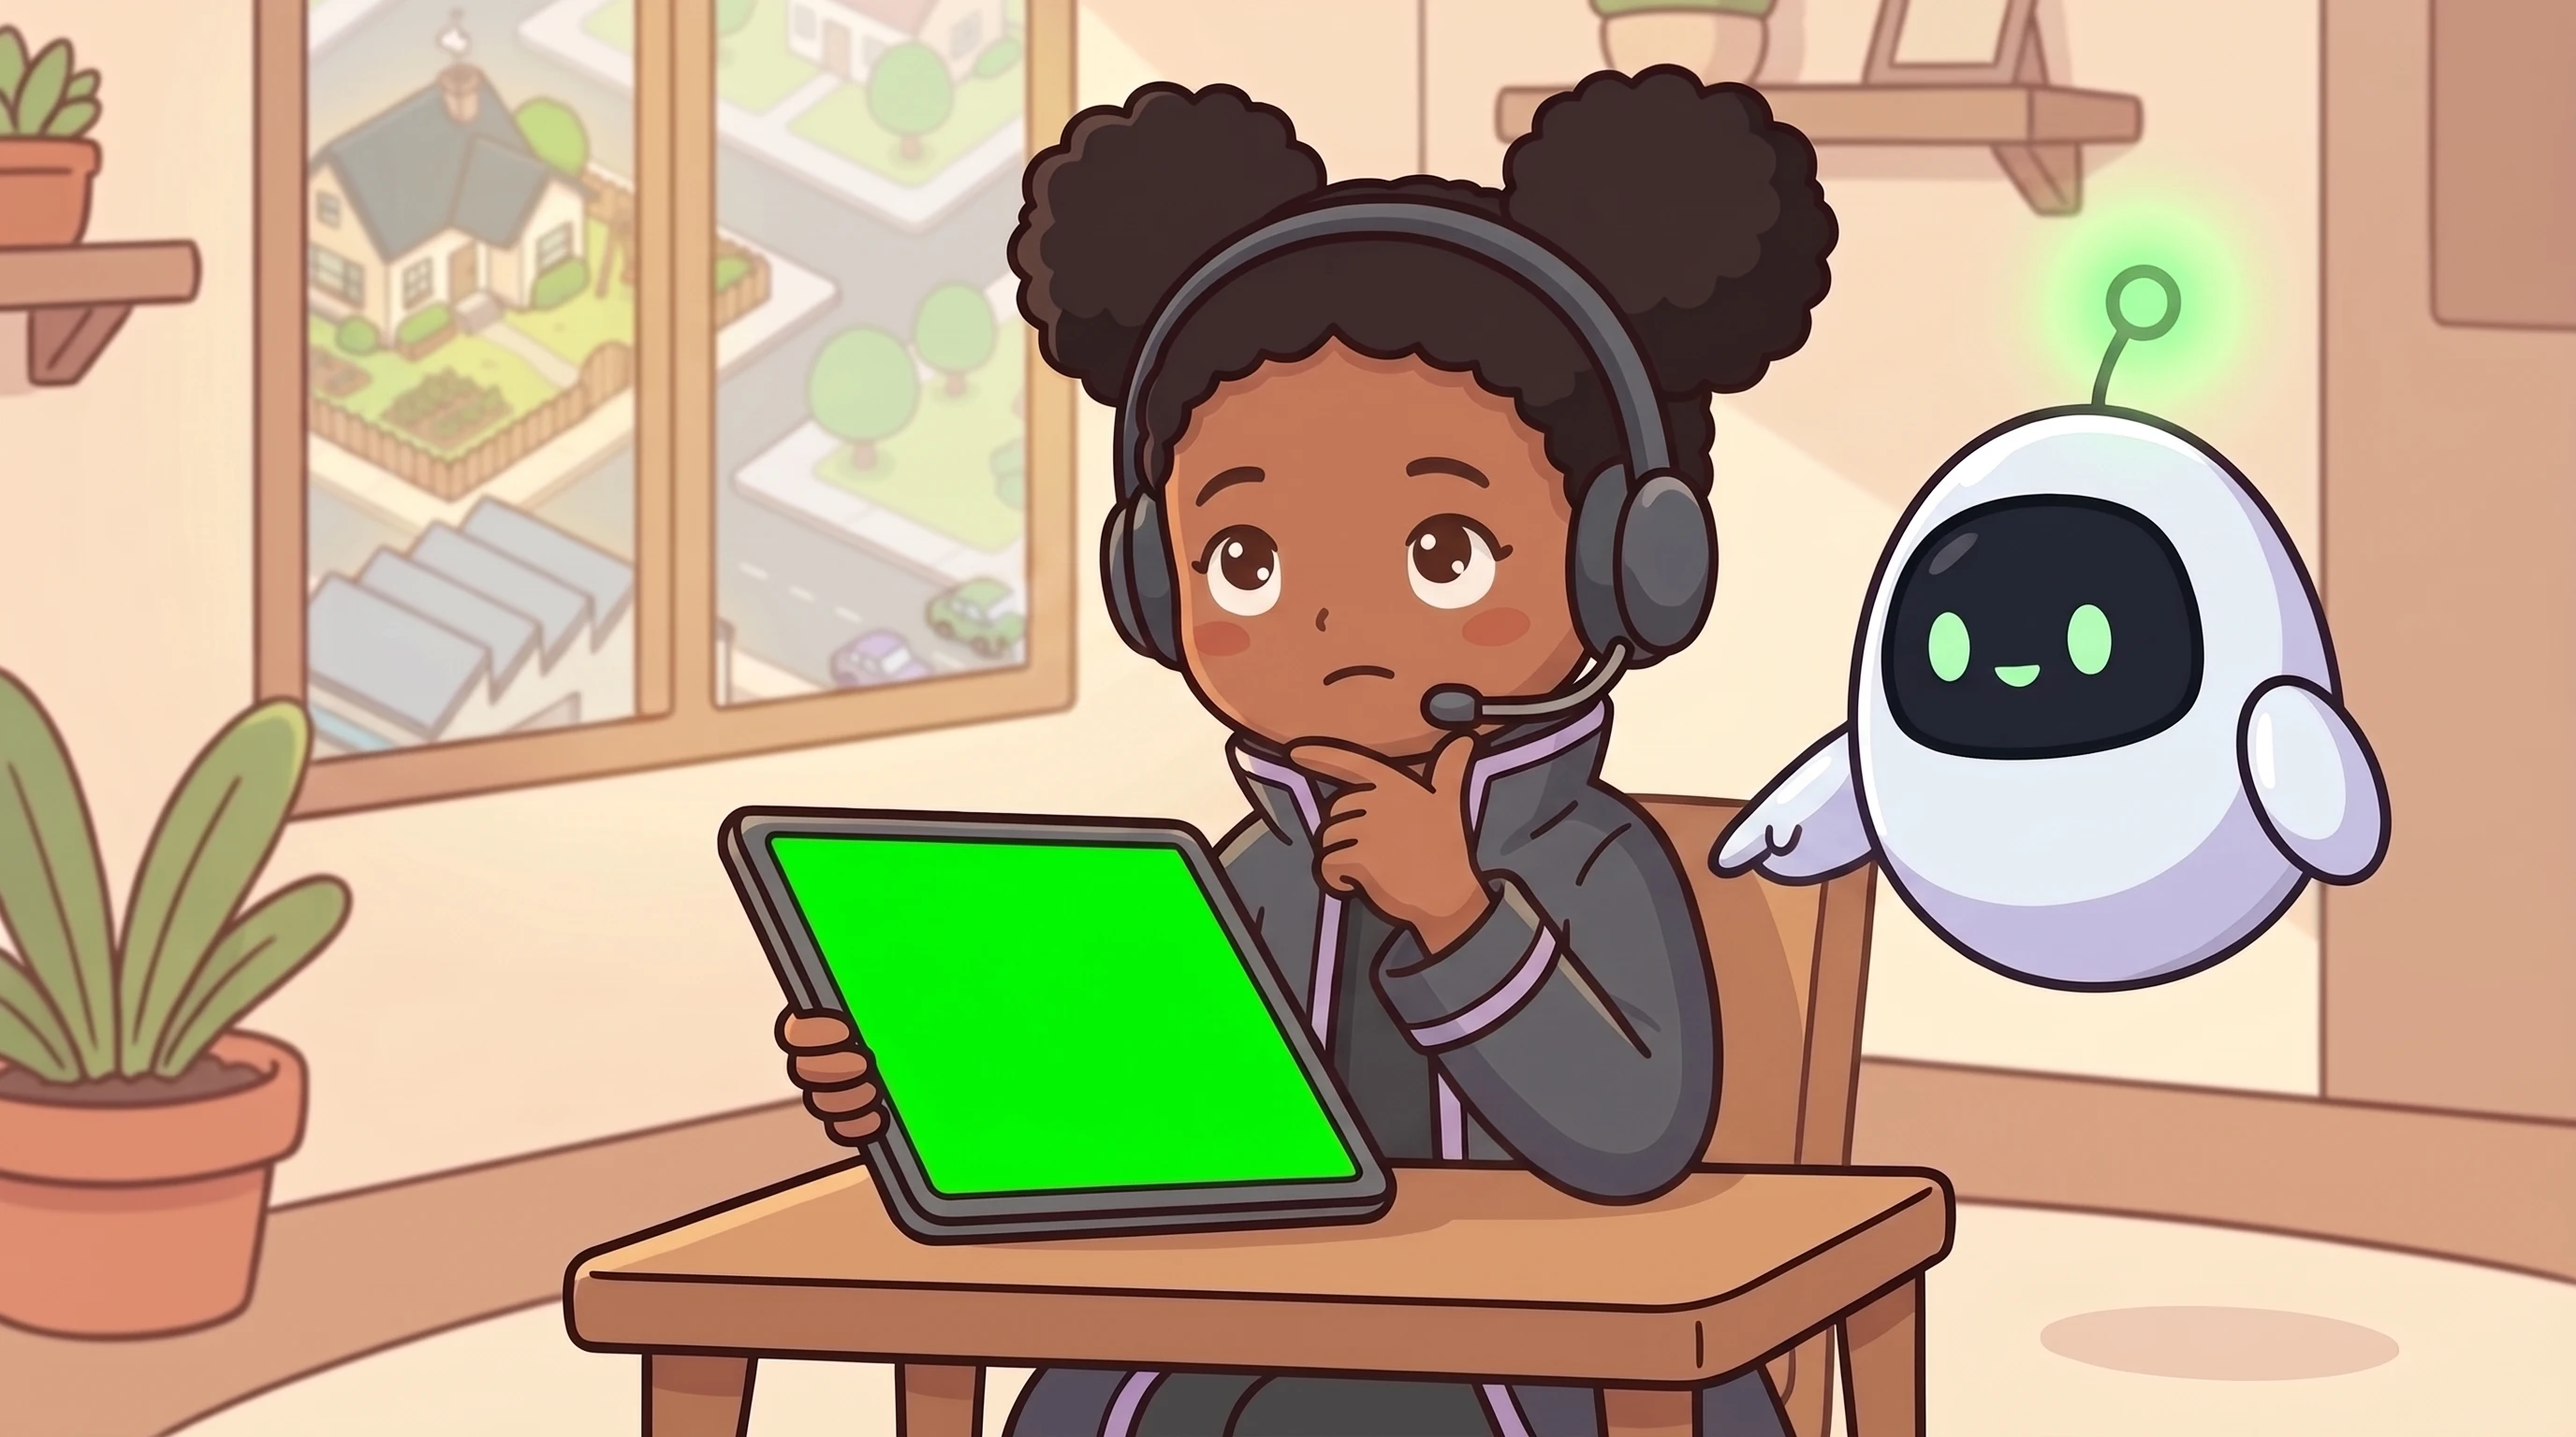
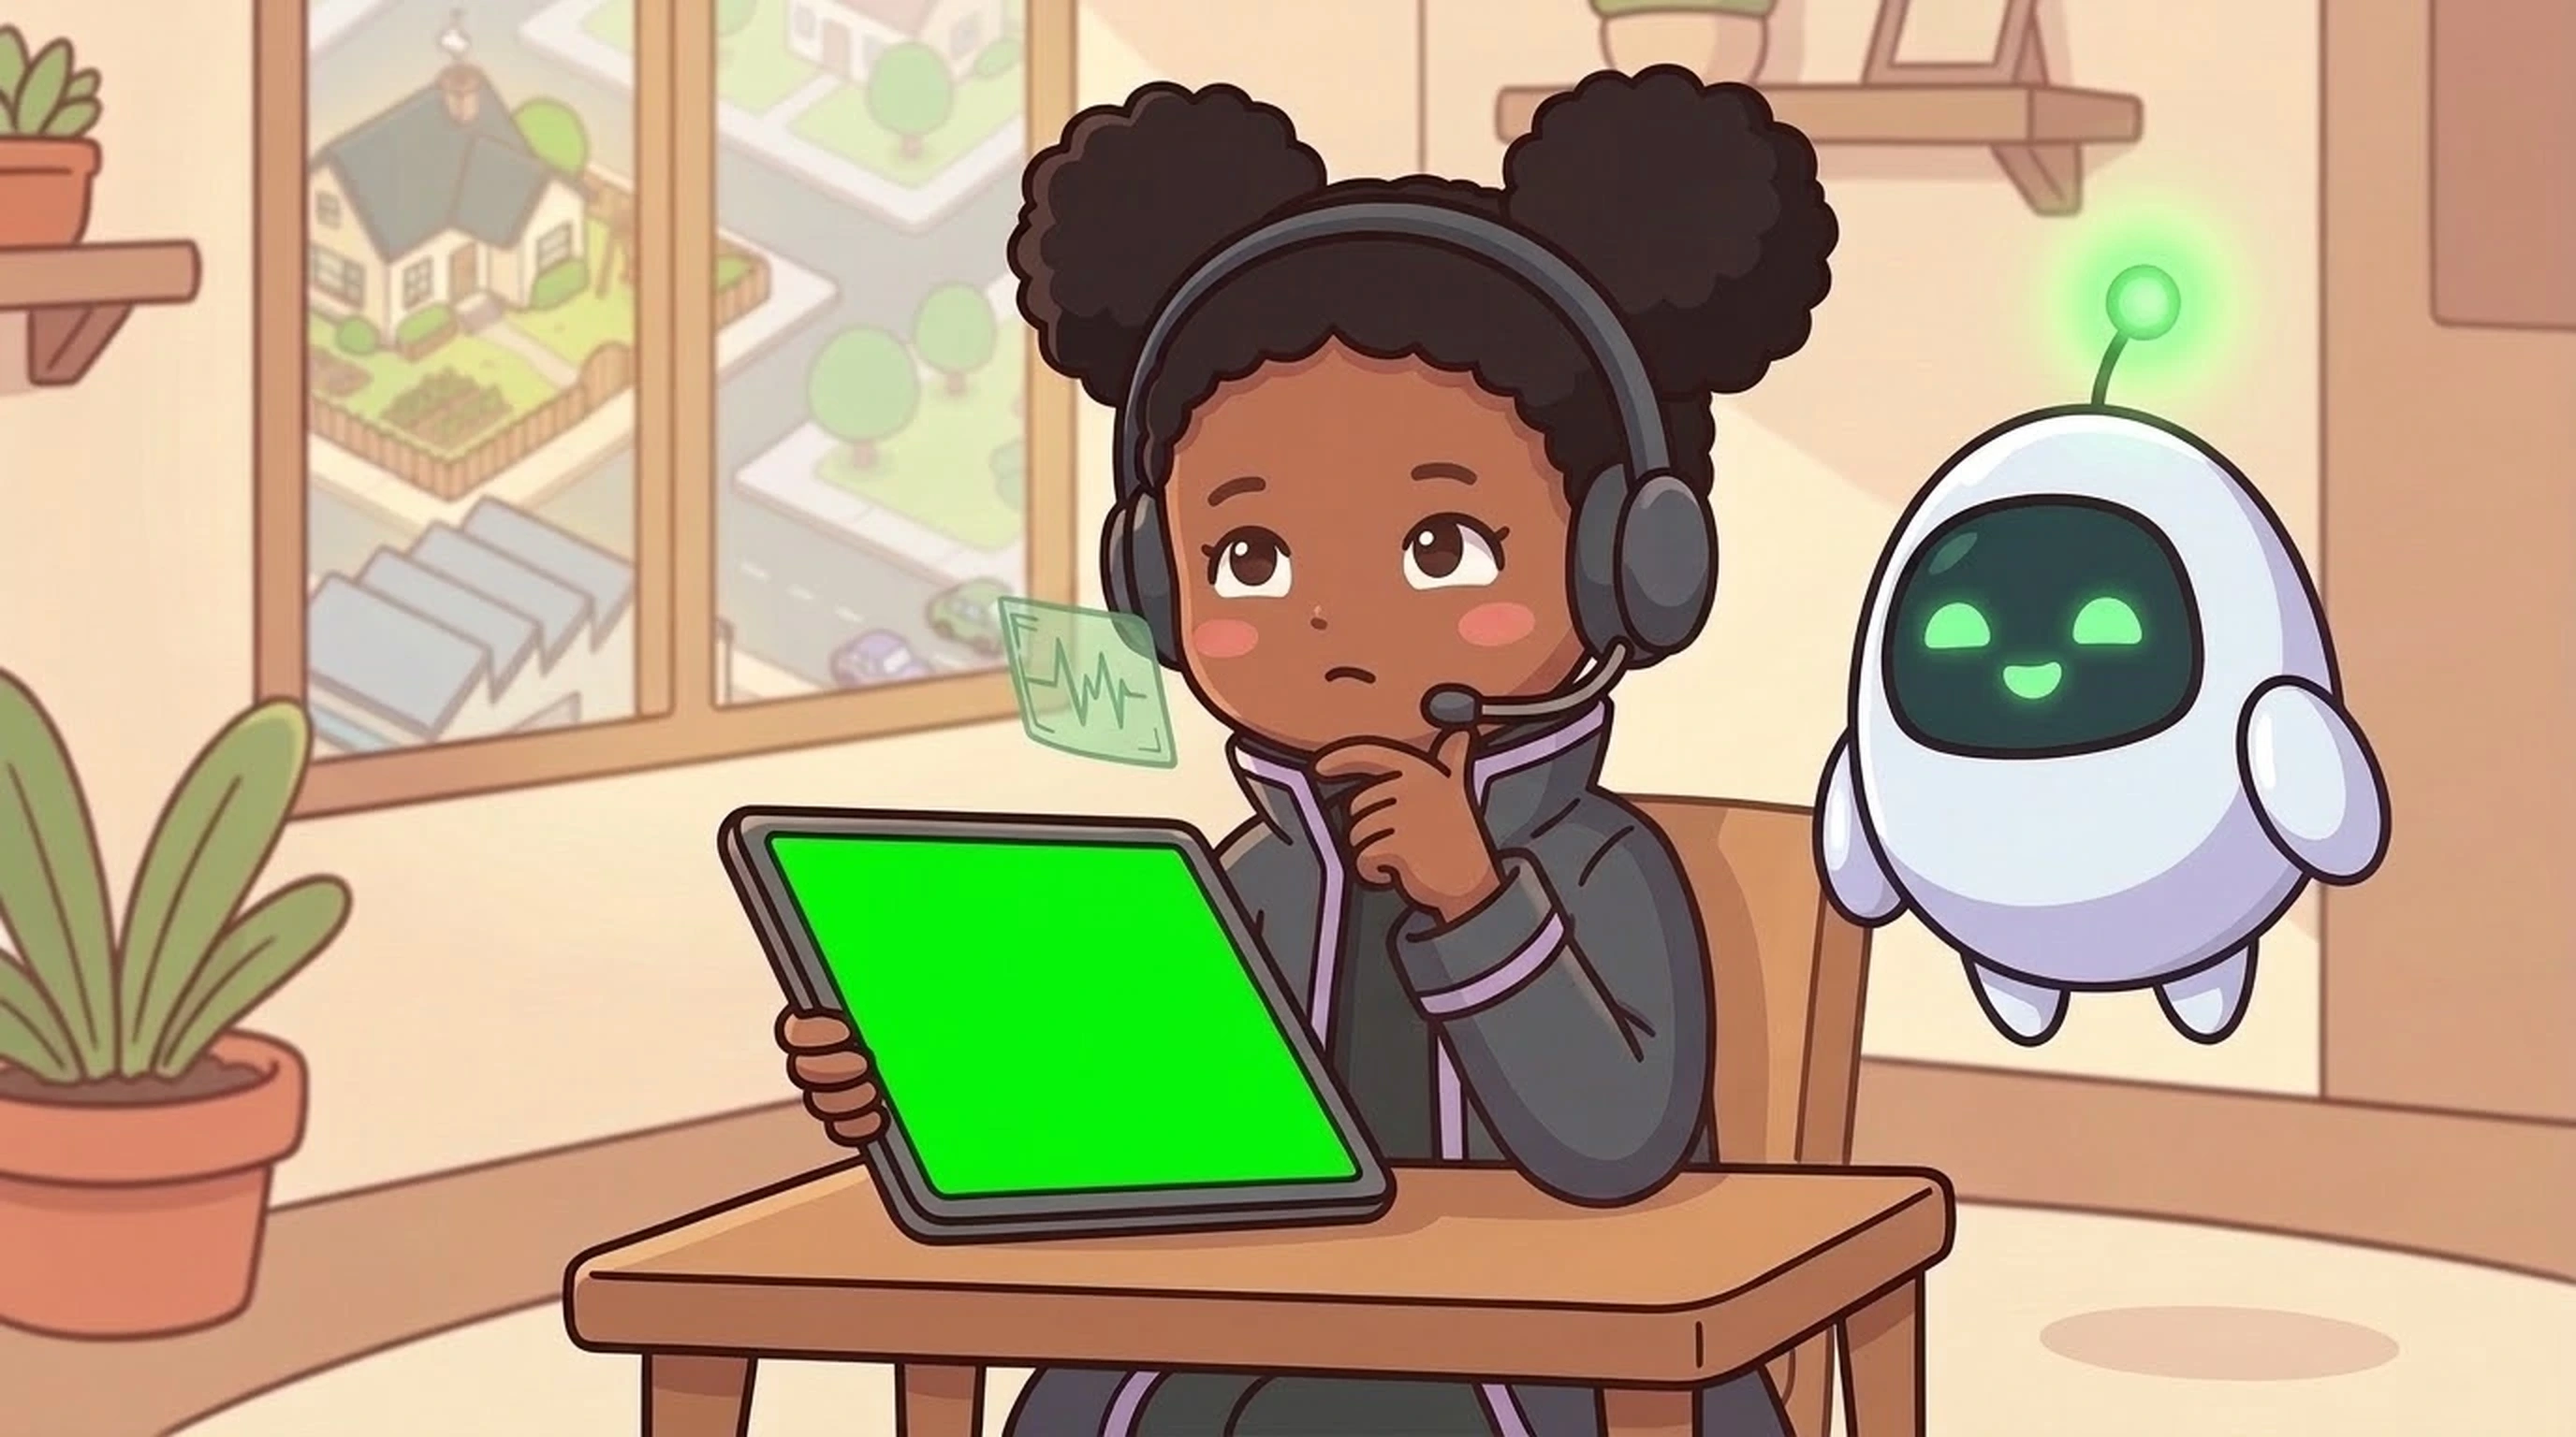
Teaser: poses da agente com o tablet no estilo C e script das versões dos vídeos da BTX
Claude-Session: https://claude.ai/code/session_01Bsh6pnBnYEpYuLdf2cBnFf

diff --git a/antigos/LEIA-ME.md b/antigos/LEIA-ME.md
@@ -19,3 +19,4 @@ Não entram aqui as partes desativadas **por enquanto** (Área do professor/edit
 | `img/pic3.webp`, `img/level3.webp`, `img/win3.webp` | cenas da Escola com a menina antiga | mesmas cenas com a menina no estilo C | 26/11/2026 |
 | `img/who2.webp` | alfinete da Fábrica com um operário de capacete | retrato do robô laranja (`cliente1`), que é o cliente desse chamado | 26/11/2026 |
 | `img/pecas/limonada-base.webp`, `img/pecas/dentes-base.webp` | bancadas antigas da limonada e dos dentes (muito detalhe atrás dos objetos) | `img/pecas/limonada-bancada.webp` e `dentes-bancada.webp` | 26/11/2026 |
+| `teaser/teaser-agente-a.webp` a `teaser-agente-d.webp` | poses da agente com o tablet no teaser, no desenho antigo (olhos grandes) | as mesmas poses no estilo C, em `docs/teaser/` | 26/11/2026 |

diff --git a/PROMPTS-TEASER.md b/PROMPTS-TEASER.md
@@ -56,6 +56,8 @@ O **vertical** usa as mesmas cenas, na mesma ordem, com as gravações no tamanh
 
 **Arquivos:** `teaser-agente-a.webp` a `teaser-agente-d.webp` (não entram no jogo, só no vídeo).
 
+> **26/11/2026:** as quatro poses foram refeitas no estilo C (traço original refinado). No Flow, a pose antiga `a` (projeto "Algoritimando", busca "tablet") foi redesenhada junto com a folha "Character lineup" do estilo C, e as poses `b`, `c` e `d` saíram por edição da nova `a`, mudando só o gesto e a expressão. O tablet ficou no mesmo lugar, então os cantos da tela verde em `monta.py` continuam valendo. As antigas estão em `antigos/teaser/`.
+
 **Como gerar** (para as 4 poses ficarem iguais):
 
 1. Gere a **A** primeiro.
